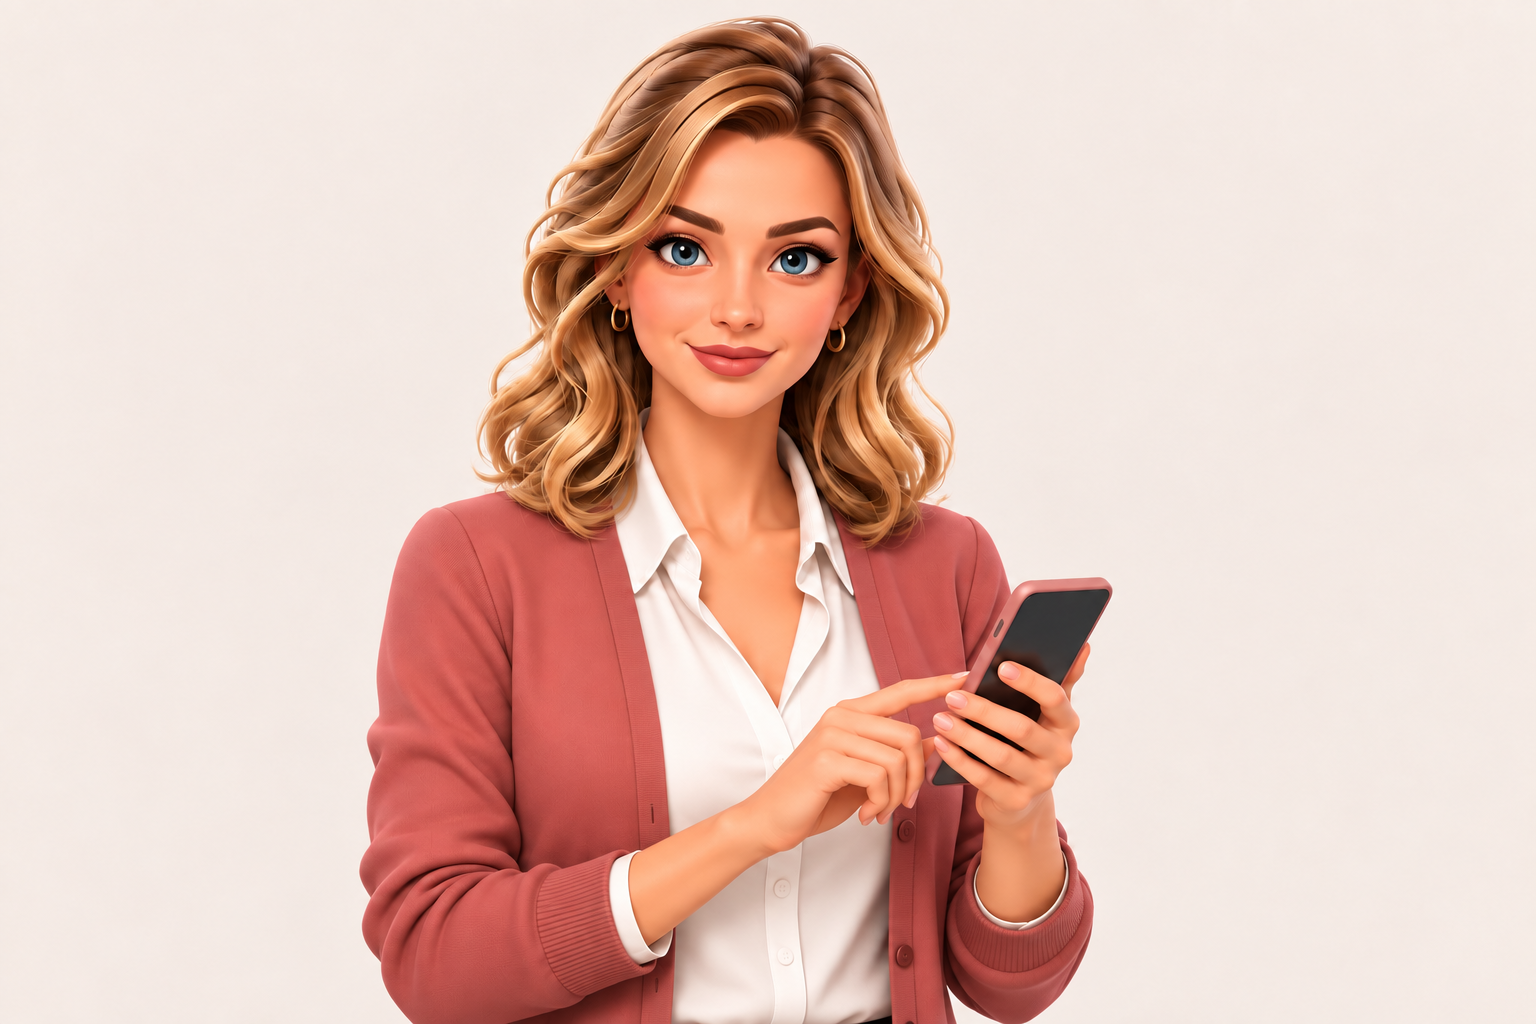
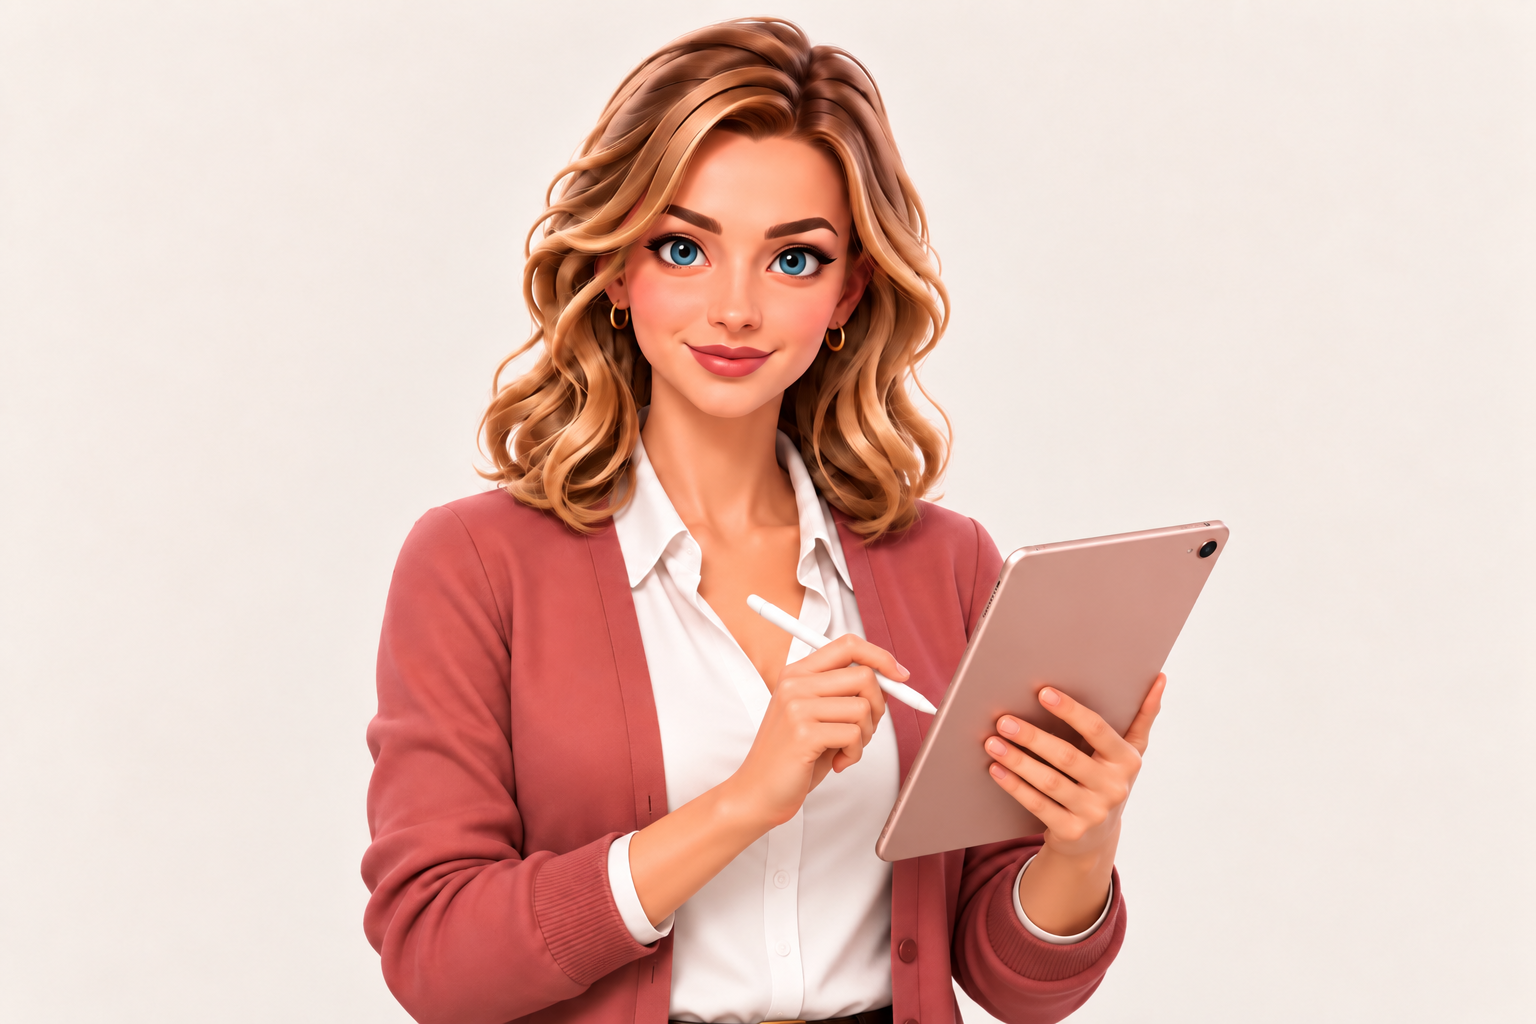
Met à jour le portrait ÉCHO (tablette rose gold, sans texte incrusté), raccourcit les pills RELAIS (Diagnostique les incidents / Escalade au bon niveau / Suit la résolution), renomme TRAME en "Mémoire des réunions".

diff --git a/expertise.html b/expertise.html
@@ -333,9 +333,9 @@
           <div class="agent-divider"></div>
           <p class="agent-desc">Diagnostique et escalade pour recentrer votre équipe IT sur l'essentiel.</p>
           <div class="agent-pills">
-            <span class="agent-pill"><svg viewBox="0 0 24 24" fill="none" stroke-width="1.6"><path d="M1 12s4-7 11-7 11 7 11 7-4 7-11 7-11-7-11-7Z"/><circle cx="12" cy="12" r="3"/></svg> Diagnostique les incidents courants</span>
-            <span class="agent-pill"><svg viewBox="0 0 24 24" fill="none" stroke-width="1.6"><path d="M5 12h14"/><path d="M13 6l6 6-6 6"/></svg> Escalade vers le bon niveau de support</span>
-            <span class="agent-pill"><svg viewBox="0 0 24 24" fill="none" stroke-width="1.6"><rect x="3" y="5" width="18" height="16" rx="2"/><path d="M8 3v4M16 3v4M3 10h18"/></svg> Suit la résolution jusqu'au bout</span>
+            <span class="agent-pill"><svg viewBox="0 0 24 24" fill="none" stroke-width="1.6"><path d="M1 12s4-7 11-7 11 7 11 7-4 7-11 7-11-7-11-7Z"/><circle cx="12" cy="12" r="3"/></svg> Diagnostique les incidents</span>
+            <span class="agent-pill"><svg viewBox="0 0 24 24" fill="none" stroke-width="1.6"><path d="M5 12h14"/><path d="M13 6l6 6-6 6"/></svg> Escalade au bon niveau</span>
+            <span class="agent-pill"><svg viewBox="0 0 24 24" fill="none" stroke-width="1.6"><rect x="3" y="5" width="18" height="16" rx="2"/><path d="M8 3v4M16 3v4M3 10h18"/></svg> Suit la résolution</span>
           </div>
           <details class="agent-more">
             <summary class="agent-cta"><span>Découvrir RELAIS</span> <span class="portrait-link-arrow">→</span></summary>
@@ -466,10 +466,10 @@
 
       <div class="agent-card">
         <div class="agent-img">
-          <img loading="lazy" decoding="async" width="1536" height="1024" src="assets/agents/trame.png" alt="TRAME — Agent IA Comptes-rendus et connaissances EXEC'IA">
+          <img loading="lazy" decoding="async" width="1536" height="1024" src="assets/agents/trame.png" alt="TRAME — Agent IA Mémoire des réunions EXEC'IA">
         </div>
         <div class="agent-body">
-          <h3 class="agent-name"><span style="color:var(--rose)">TRAME</span> <span>Comptes-rendus &amp; connaissances</span></h3>
+          <h3 class="agent-name"><span style="color:var(--rose)">TRAME</span> <span>Mémoire des réunions</span></h3>
           <div class="agent-divider"></div>
           <p class="agent-desc">Transforme chaque réunion en mémoire consultable et exploitable.</p>
           <div class="agent-pills">
